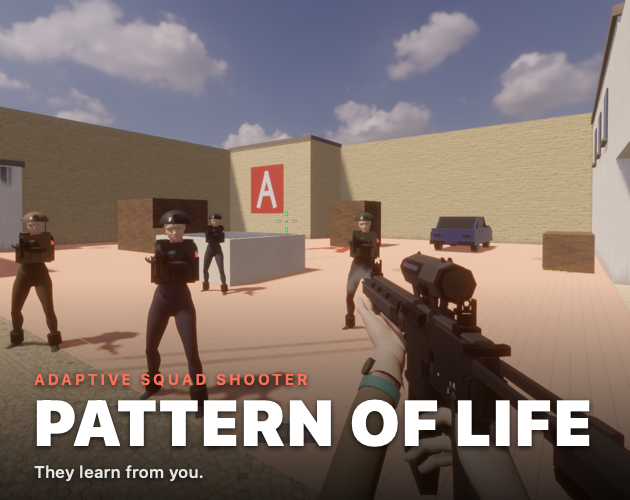
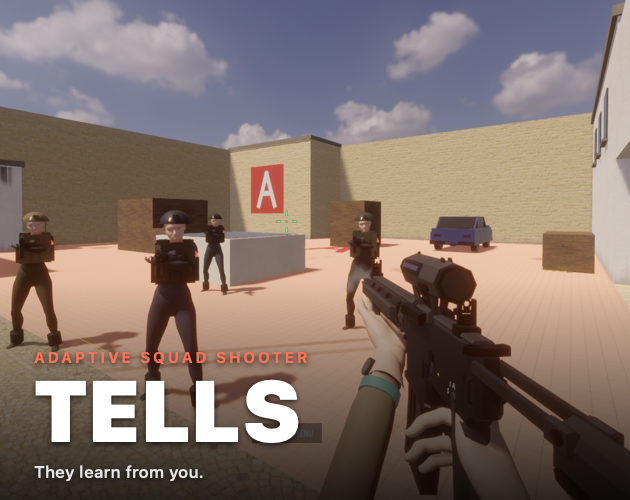
Rename the game to Tells (was Pattern of Life); 0.2.1
The squad reads your tells. Window title, macOS app and DMG, Windows exe and zip names, itch
target himanshuat/tells, readmes, cover, site copy and docs. The save folder, binary and crates
keep the codename shroud, so saves carry over.

Changed region(s): [[0.0302, 0.69, 0.6937, 0.9], [0.7238, 0.78, 0.9349, 0.9]]

diff --git a/packaging/itch/description.html b/packaging/itch/description.html
@@ -1,4 +1,4 @@
-<p><strong>A tactical shooter where the enemy squad builds your pattern of life, and plays against it.</strong></p>
+<p><strong>A tactical shooter where the enemy squad reads your tells, and plays against them.</strong></p>
 <p>Bomb defusal, you against a squad of three to six (by difficulty), first to 3 rounds: plant at A or B before the clock runs out. After every match the squad evolves against a model of <em>you</em>: where you hold, which way you peek, the ranges you fight at. The next squad is bred from the ones that did best against you, and it plays differently.</p>
 <h2>What's in this build (v0.2.0)</h2>
 <ul>
@@ -20,13 +20,13 @@
 </ul>
 <h2>Install</h2>
 <ul>
-<li><strong>Windows 10/11 (64-bit):</strong> unzip and run <code>PatternOfLife.exe</code>. No installer, no extra runtimes.</li>
-<li><strong>macOS (Apple Silicon and Intel):</strong> unzip and open <code>Pattern of Life.app</code>. Signed and notarized.</li>
+<li><strong>Windows 10/11 (64-bit):</strong> unzip and run <code>Tells.exe</code>. No installer, no extra runtimes.</li>
+<li><strong>macOS (Apple Silicon and Intel):</strong> unzip and open <code>Tells.app</code>. Signed and notarized.</li>
 <li>The itch app installs and launches either one.</li>
 </ul>
 <p>Your progress and the squad's memory are saved locally; delete the save folder (see README.txt) to start over.</p>
 <h2>Crash and performance reports</h2>
 <p>This build sends crash reports, frame times and match results (map, difficulty, round scores) so we can fix what breaks, with no name attached. What the squad learns about you never leaves your computer. Turn it off in Settings → Gameplay.</p>
 <h2>Early build</h2>
-<p>Pattern of Life (previously called Shroud) is in development. Feedback is very welcome in the comments: what felt unfair, what felt smart, what broke.</p>
+<p>Tells (previously Pattern of Life, codename Shroud) is in development. Feedback is very welcome in the comments: what felt unfair, what felt smart, what broke.</p>
 <p>Made in Rust with Bevy. Art and sound are CC0 (Quaternius, Kenney and others; full credits in CREDITS.md in the download).</p>

diff --git a/web/src/data/site.ts b/web/src/data/site.ts
@@ -14,9 +14,9 @@ export type Placeholder = { label: string; value: string; placeholder: boolean; 
 
 // The game's name (formerly the codename Shroud). Change it here. Other spots that still spell it out
 // (none of them visible copy) are listed in README.md under "Renaming".
-export const NAME = 'Pattern of Life';
+export const NAME = 'Tells';
 // The itch.io page: live, free download for Windows and macOS.
-export const ITCH_URL = 'https://himanshuat.itch.io/patternoflife';
+export const ITCH_URL = 'https://himanshuat.itch.io/tells';
 
 export const download = {
   href: ITCH_URL,
@@ -33,7 +33,7 @@ export const site = {
   urlPlaceholder: true,
   title: `${NAME}: they get smarter, never faster`,
   description:
-    `${NAME} is a tactical shooter where the enemy squad builds your pattern of life, and plays against it. They get smarter, never faster.`,
+    `${NAME} is a tactical shooter where the enemy squad reads your tells, and plays against them. They get smarter, never faster.`,
   tagline: 'They get smarter, never faster.',
   kind: 'Tactical squad shooter',
 } as const;
@@ -68,7 +68,7 @@ export const release: Placeholder[] = [
 ];
 
 export const home = {
-  heroLine: 'A tactical shooter where the enemy squad builds your pattern of life, and plays against it.',
+  heroLine: 'A tactical shooter where the enemy squad reads your tells, and plays against them.',
   heroHint: 'Live on Foundry: point at or tap the map. That is you.',
   heroCta: { href: '/squad/', label: 'See how they hunt' },
   statement:

diff --git a/packaging/itch/make_cover.swift b/packaging/itch/make_cover.swift
@@ -25,7 +25,7 @@ func draw(_ s: String, _ font: NSFont, _ color: NSColor, _ y: CGFloat, kern: CGF
 }
 let barlow = NSFont(name: "Barlow-Medium", size: 82) ?? NSFont.systemFont(ofSize: 82, weight: .heavy)
 // Title: the largest size up to 86pt that fits the cover width; the eyebrow sits just above it.
-let title = "PATTERN OF LIFE", titleKern: CGFloat = 2
+let title = "TELLS", titleKern: CGFloat = 2
 var titleFont = NSFont.systemFont(ofSize: 86, weight: .black)
 while titleFont.pointSize > 30 && NSAttributedString(string: title, attributes: [.font: titleFont, .kern: titleKern]).size().width > CGFloat(W) - 68 {
     titleFont = NSFont.systemFont(ofSize: titleFont.pointSize - 1, weight: .black)

diff --git a/crates/game/src/main.rs b/crates/game/src/main.rs
@@ -38,7 +38,7 @@ pub use state::{GameState, Headless};
 fn info() -> GameInfo {
     // `id` "shroud" names the save folder and the SHROUD_* env vars: keep it, or players lose
     // their saves. `title` is only the player-facing name (window, menu).
-    GameInfo::new("shroud", "Pattern of Life")
+    GameInfo::new("shroud", "Tells")
         // Second line: the fairness promise (aim/reaction are fixed per difficulty, see brain::limits).
         .tagline("They learn from you.\nThey never aim faster. They play smarter.")
         .version(env!("CARGO_PKG_VERSION"))

diff --git a/docs/research/adaptive-squad-ai.md b/docs/research/adaptive-squad-ai.md
@@ -1,10 +1,10 @@
-# Learning One Player: Architecture for an Adaptive Enemy Squad in Pattern of Life
+# Learning One Player: Architecture for an Adaptive Enemy Squad in Tells
 
 *Research report, October 2026. Scope: `crates/brain` and the parts of `crates/game` that feed it.*
 
 ## Abstract
 
-Pattern of Life's enemy squad is supposed to get better at beating one particular player from match to match. Right now it doesn't do that convincingly. Players win 2–0 again and again at generation 8, and the debrief insights are things like "you hold the south yard 70%". This report reviews published work on learned and adaptive game agents: NVIDIA's ACE and GPU simulation work, DeepMind's Capture the Flag agents, GT Sophy, OpenAI Five, Forza's Drivatars, learned bots at Ubisoft and EA, Microsoft's WHAM, neuroevolution and quality diversity, player modelling, dynamic difficulty, shipped tactical FPS AI, and bot believability. The main conclusion is that **none of the systems that reached human or superhuman level did it with a handful of games of data.** They used hundreds of thousands of games (FTW: 450K [8]), days of console time (GT Sophy: 10–21 PS4s for 7–12 days [10]), or months of distributed self-play (OpenAI Five: 10 months [11]). Pattern of Life gets roughly 2–3 rounds of real data per match. The project's own measurement shows where the current loop breaks. Against the default scripted ghost, the squad's simulated win rate climbs from about 4% to 90–100% by generation 8, yet the real player still wins every generation 2–0. Simulation progress does not transfer. So the architecture should not try to learn a policy from the player's matches. It should **learn a model of the player** from those matches, then spend cheap, unlimited simulation **planning and evolving against that model**, and pick among a diverse archive of ready-made squad styles using a sample-efficient online bandit. The central recommendation is a **high-fidelity player clone for training**. It is behaviour-cloned from the player's recorded trajectories and duels, calibrated so that clone-versus-squad outcomes match real outcomes, and validated each generation by the gap between simulated and real win rate. Around it we propose: a situation-conditioned Bayesian player model; a real squad layer (shared belief, roles, bounding overwatch, crossfires, and Killzone-style position evaluation whose weights evolve); a lower-noise training loop built on a MAP-Elites archive and an opponent pool; optional small-scale RL; explicit fairness limits; and a CPU-first compute plan for a 24 GB Apple M5 laptop. We also give an evaluation protocol that separates "smarter" from "stronger", a method for producing statistically sound counterfactual debrief insights, and a prioritised roadmap mapped onto the existing modules.
+Tells's enemy squad is supposed to get better at beating one particular player from match to match. Right now it doesn't do that convincingly. Players win 2–0 again and again at generation 8, and the debrief insights are things like "you hold the south yard 70%". This report reviews published work on learned and adaptive game agents: NVIDIA's ACE and GPU simulation work, DeepMind's Capture the Flag agents, GT Sophy, OpenAI Five, Forza's Drivatars, learned bots at Ubisoft and EA, Microsoft's WHAM, neuroevolution and quality diversity, player modelling, dynamic difficulty, shipped tactical FPS AI, and bot believability. The main conclusion is that **none of the systems that reached human or superhuman level did it with a handful of games of data.** They used hundreds of thousands of games (FTW: 450K [8]), days of console time (GT Sophy: 10–21 PS4s for 7–12 days [10]), or months of distributed self-play (OpenAI Five: 10 months [11]). Tells gets roughly 2–3 rounds of real data per match. The project's own measurement shows where the current loop breaks. Against the default scripted ghost, the squad's simulated win rate climbs from about 4% to 90–100% by generation 8, yet the real player still wins every generation 2–0. Simulation progress does not transfer. So the architecture should not try to learn a policy from the player's matches. It should **learn a model of the player** from those matches, then spend cheap, unlimited simulation **planning and evolving against that model**, and pick among a diverse archive of ready-made squad styles using a sample-efficient online bandit. The central recommendation is a **high-fidelity player clone for training**. It is behaviour-cloned from the player's recorded trajectories and duels, calibrated so that clone-versus-squad outcomes match real outcomes, and validated each generation by the gap between simulated and real win rate. Around it we propose: a situation-conditioned Bayesian player model; a real squad layer (shared belief, roles, bounding overwatch, crossfires, and Killzone-style position evaluation whose weights evolve); a lower-noise training loop built on a MAP-Elites archive and an opponent pool; optional small-scale RL; explicit fairness limits; and a CPU-first compute plan for a 24 GB Apple M5 laptop. We also give an evaluation protocol that separates "smarter" from "stronger", a method for producing statistically sound counterfactual debrief insights, and a prioritised roadmap mapped onto the existing modules.
 
 ---
 
@@ -32,7 +32,7 @@ Reading `evolve.rs`, `sim.rs`, `mind.rs`, `utility.rs` and `player_model.rs` tur
 | D5 | **The behaviour space lacks the behaviours players read as smart.** Evolution tunes 10 scalars and a 14→4 micro net. The tactics themselves are hand-written utility curves. Coordination is now a radio blackboard (sightings shared every 0.35 s), reload-punish pushes and crossfire-aware flank selection (recently added in `mind.rs`/`utility.rs`), plus the ≤ 2 flanker cap and spacing. | `utility.rs`, `mind.rs` | Bounding overwatch, trading, pinning with suppression, pre-aiming the player's favourite angle, and collapsing on a sound can't be discovered because they can't be expressed. |
 | D6 | **Adaptation is invisible.** There are no callouts, and the debrief doesn't show what the squad tried. | game UI | Even real adaptation goes unnoticed. Shipped games (Section 3.6) show that perceived intelligence depends heavily on legibility. |
 
-The literature below explains why D1–D3 matter most, and D1 most of all. Every successful learned-agent system either had a faithful simulator of its opponent (the real game, self-play) or enormous amounts of data. Pattern of Life has neither, so the fidelity of the player model is the bottleneck.
+The literature below explains why D1–D3 matter most, and D1 most of all. Every successful learned-agent system either had a faithful simulator of its opponent (the real game, self-play) or enormous amounts of data. Tells has neither, so the fidelity of the player model is the bottleneck.
 
 ---
 
@@ -50,14 +50,14 @@ Primary sources were read where possible: arXiv papers, journal pages, and the o
 
 - **ACE autonomous game characters (CES 2025)** [1]. The pitch is characters that "perceive, plan, and act like human players". The stack is on-device models: Mistral-NeMo-Minitron language models at 8B, 4B and 2B (the 2B "fits in as little as 1.5GB of VRAM"), plus audio, vision and retrieval models. The only adaptation claim is marketing copy saying MIR5 bosses "continuously learn from player behavior" **[unverified: no technical source]**.
 - **PUBG Ally (KRAFTON, beta June 2026)** [2]. A quantised 2B language model (*System 2*) interprets speech and events and issues intents. A behaviour tree (*System 1*) does movement, aiming and combat, so "reflex-level actions never have to wait for the model". Cross-match adaptation is *memory* (preferred weapons, drop spots). There is no RL or imitation of combat. (The CES page names 8B for Ally [1]; the 2026 write-up says 2B.) *Lesson:* the useful part is the fast/slow split and grounded memory. ACE is not a way to make a squad tactically smarter.
-- **Isaac Gym** [3] runs simulation and training together on the GPU and reports 2–3 orders of magnitude speed-ups for robot RL. The transferable idea is batched simulation, also applied to game-style ECS by Madrona [51]. Section 4.6 explains why it mostly doesn't pay off for Pattern of Life.
+- **Isaac Gym** [3] runs simulation and training together on the GPU and reports 2–3 orders of magnitude speed-ups for robot RL. The transferable idea is batched simulation, also applied to game-style ECS by Madrona [51]. Section 4.6 explains why it mostly doesn't pay off for Tells.
 - **Research that is relevant, but not to squads:**
   - **ASE** [4]: adversarial imitation of motion clips into reusable skills.
   - **Eureka** [5]: an LLM evolves reward code, beating human-written rewards on 83% of 29 tasks.
   - **Voyager** [6]: a GPT-4 Minecraft agent.
   - **NitroGen** [7]: a ~500M-parameter vision-to-gamepad model behaviour-cloned from ~40,000 h of video across 1,000+ games, with up to 52% relative gain on unseen games.
 
-  Together they show that imitation scales with *data*, which is the one thing Pattern of Life doesn't have for a single player.
+  Together they show that imitation scales with *data*, which is the one thing Tells doesn't have for a single player.
 
 ### 3.2 Population RL and self-play at scale
 
@@ -68,7 +68,7 @@ Primary sources were read where possible: arXiv papers, journal pages, and the o
 - **OpenAI Five** [11] trained for 10 months. Self-play split 80% against the latest policy and 20% against past versions. Its "team spirit" τ blends individual and team-mean reward, r_i = (1−τ)ρ_i + τρ̄, annealed toward 1. Average reaction time was 217 ms.
 - **AlphaStar** [12] used a league of main agents, *main exploiters* that target the current main agent, and *league exploiters*, under negotiated limits on action rate.
 
-*Lessons for Pattern of Life:*
+*Lessons for Tells:*
 - Select on winning and let shaping evolve (FTW).
 - Curate training scenarios (Sophy).
 - Play past opponents and use team spirit (Five).
@@ -93,8 +93,8 @@ Forza's Drivatar is the closest shipped analogue [13][14]. The original Microsof
 
 - **Player modelling** is surveyed in [29][30], and opponent modelling in [36].
 - **Position prediction:** Hladky and Bulitko learned models from Counter-Strike: Source records that predict hidden opponents' positions, using only what a human could know, with "similar or better accuracy than human experts" [35]. This supports a **belief-state** squad.
-- **Few-shot individual models:** fine-tuned per-player chess models predict and even identify individuals [38]. The 2025 follow-up says those needed about 5,000 games; its Maia4All method needs **about 20**, by initialising a per-player embedding from population prototypes [39]. *This is the template for a Pattern of Life player clone:* a population prior plus a small per-player embedding.
-- **Fast selection from a library:** Bayesian Policy Reuse [37] keeps a belief over which known task type it is facing and picks the policy from a library that handles it best, converging within a few episodes. For Pattern of Life, the library is the squad archive and the task is this player.
+- **Few-shot individual models:** fine-tuned per-player chess models predict and even identify individuals [38]. The 2025 follow-up says those needed about 5,000 games; its Maia4All method needs **about 20**, by initialising a per-player embedding from population prototypes [39]. *This is the template for a Tells player clone:* a population prior plus a small per-player embedding.
+- **Fast selection from a library:** Bayesian Policy Reuse [37] keeps a belief over which known task type it is facing and picks the policy from a library that handles it best, converging within a few episodes. For Tells, the library is the squad archive and the task is this player.
 - **Dynamic difficulty adjustment:**
   - Hunicke argued for DDA in games [31], and her Hamlet system for Half-Life adjusted item supply [32]. Chen's flow framing ties challenge to ability [33].
   - Spronck's **dynamic scripting** [34] adapted online within tens of encounters, and shipped as a *Neverwinter Nights* demonstration. It managed this because it learns only **weights over a fixed set of sensible tactics**.
@@ -107,11 +107,11 @@ Forza's Drivatar is the closest shipped analogue [13][14]. The original Microsof
 - **Halo** [44] playtests: "very intelligent" ratings rose from 8% for weak enemies to 43% for tough ones ("Tougher = Smarter"). The game had 166 dialogue types and 5,147 lines of combat chatter. Halo 2 introduced behaviour trees ([45], secondary source).
 - **Left 4 Dead's Director** [46] tracks survivor "intensity" (damage, incapacitation, nearby kills; decays when not engaged). It cycles Build Up → Sustain Peak (3–5 s) → Peak Fade → Relax (30–45 s). It adjusts difficulty through *pacing*, not stats.
 
-*Synthesis:* squads that ship and feel smart are **good positional reasoning, simple coordination and legibility**. These are the things Pattern of Life can't currently express (D5, D6).
+*Synthesis:* squads that ship and feel smart are **good positional reasoning, simple coordination and legibility**. These are the things Tells can't currently express (D5, D6).
 
 ### 3.7 Neuroevolution and quality diversity
 
-- **NEAT** [24] complexifies topologies, with speciation to protect new structure. **rtNEAT/NERO** [25] evolved combat teams *during* play under player-set fitness sliders. It is Pattern of Life's direct ancestor, and it worked because fitness was dense and player-directed.
+- **NEAT** [24] complexifies topologies, with speciation to protect new structure. **rtNEAT/NERO** [25] evolved combat teams *during* play under player-set fitness sliders. It is Tells's direct ancestor, and it worked because fitness was dense and player-directed.
 - **Novelty search** [27] shows that pure objective search gets trapped by deception.
 - **MAP-Elites** [26] keeps the best solution per cell of a behaviour space. **CMA-ME** [28] found stronger and more diverse Hearthstone decks than either CMA-ES or MAP-Elites.
 
@@ -137,7 +137,7 @@ Forza's Drivatar is the closest shipped analogue [13][14]. The original Microsof
 
 ---
 
-## 4. Proposed architecture for Pattern of Life
+## 4. Proposed architecture for Tells
 
 **Principle:** *Real matches are for **measuring the player**. Simulation is for **learning to beat them**. Deployment is a **bandit** over a diverse archive.*
 
@@ -177,7 +177,7 @@ Forza's Drivatar is the closest shipped analogue [13][14]. The original Microsof
 
 ### 4.1.1 L3: a calibrated player clone for training (central recommendation)
 
-The measured gap (D1) means every hour of training so far has optimised against the wrong opponent. A squad that wins 90–100% against the ghost and 0 of the real rounds has learned to beat the ghost. **Nothing else in this report pays off until the training opponent behaves, and loses, like the player.** The clone is that opponent. Every successful system in Section 3 had a faithful opponent, either the real game in self-play or a large dataset. For one player, Pattern of Life has to build it from a few matches.
+The measured gap (D1) means every hour of training so far has optimised against the wrong opponent. A squad that wins 90–100% against the ghost and 0 of the real rounds has learned to beat the ghost. **Nothing else in this report pays off until the training opponent behaves, and loses, like the player.** The clone is that opponent. Every successful system in Section 3 had a faithful opponent, either the real game in self-play or a large dataset. For one player, Tells has to build it from a few matches.
 
 **What the clone is.** A simulated player whose *decisions* are fitted to the player's recorded behaviour (behaviour cloning) and whose *outcomes* are then calibrated so that it wins and loses against squads at the rate the real player does. It is built in two stages.
 
@@ -490,7 +490,7 @@ Written after player feedback asking for an enemy that is more aggressive and pe
 - ViZDoom [A15] is a fast testbed.
 - Raycast "sensors" were enough for human-like imitation-learned shooter bots [A16]. That matches our 2D sim's sensor budget.
 
-### What Pattern of Life now does (`perception.rs`, `mind.rs`, `squad.rs`, `utility.rs`)
+### What Tells now does (`perception.rs`, `mind.rs`, `squad.rs`, `utility.rs`)
 
 1. **Alert states.**
    - Each enemy and the squad blackboard carry `Alert::{Unaware, Suspicious, Combat}`.

diff --git a/docs/marketing/REDDIT_PLAN.md b/docs/marketing/REDDIT_PLAN.md
@@ -1,9 +1,9 @@
-# Reddit plan and post drafts: Pattern of Life (codename Shroud)
+# Reddit plan and post drafts: Tells (codename Shroud)
 
 Drafted 11 Nov 2026. Drafting only: nothing posted, nobody contacted.
 Binding inputs: `company-context/founder/gtm-and-fundraise-2026-11.md` and the research brief (two accounts, max one self-promo post per sub per week, reply within 2 h, no paid ads, no "CS2-like" in titles). Targets: 300 stranger downloads by 15 Dec 2026; 500 wishlists before Next Fest (registration closes 10 Jan 2027, fest 22 Feb - 1 Mar 2027).
 
-**Name.** The game is **Pattern of Life** (renamed from the codename Shroud, a famous FPS streamer's name; owner approved 11 Nov 2026). Rule sources in the research brief are third-party mirrors, so read each sidebar on the day you post.
+**Name.** The game is **Tells** (owner's choice, 12 Nov 2026: a tell is the habit that gives a player away, and the squad reads yours). It was Pattern of Life for one day (0.2.0 on itch, 11 Nov), and before that the codename Shroud, a famous FPS streamer's name. itch.io: https://himanshuat.itch.io/tells. Rule sources in the research brief are third-party mirrors, so read each sidebar on the day you post.
 
 **Accounts.** Studio = S (player subs). Personal = P (r/rust, r/bevy, r/rust_gamedev, r/MachineLearning). S and P never vote on, comment on or crosspost each other's threads.
 
@@ -55,14 +55,14 @@ Capture with `crates/game/src/dev/cinema.rs` (capture + camera path) or `scripts
 **Title:** I played it twice. The second time, the bots knew exactly where I like to hold.
 **Body:** none (video only). Clip A.
 **First comment:**
-> Dev here. Pattern of Life is a single-player tactical defusal shooter (first to 3 rounds, buy menu, grenades) where the enemy squad studies how you play between matches. It doesn't get faster or more accurate; it gets smarter about where it stands and how it peeks.
+> Dev here. Tells is a single-player tactical defusal shooter (first to 3 rounds, buy menu, grenades) where the enemy squad studies how you play between matches. It doesn't get faster or more accurate; it gets smarter about where it stands and how it peeks.
 > Destroy it, please: (1) did the first 30 seconds tell you what the game is? (2) could you read the radio calls? (3) does the look feel cheap or fine? Free build on itch if you want to try it: {ITCH_URL_UTM}
 > {Cut note if applicable.}
 
 ### 3.2 r/playmygame (S)
-**Title:** [Windows/Mac] Free build: a bomb-defusal shooter where the enemy squad learns your habits (Pattern of Life)
+**Title:** [Windows/Mac] Free build: a bomb-defusal shooter where the enemy squad learns your habits (Tells)
 **Body:**
-> I'm a solo dev. Pattern of Life is a first-person shooter: you attack, a squad defends two sites, first to 3 rounds, with a round economy, buy menu and grenades. Between matches the squad trains on a ghost of you and comes back with counters to what it saw: hold an angle and they jiggle-peek and flash, reload early and someone rushes the sound of your mag.
+> I'm a solo dev. Tells is a first-person shooter: you attack, a squad defends two sites, first to 3 rounds, with a round economy, buy menu and grenades. Between matches the squad trains on a ghost of you and comes back with counters to what it saw: hold an angle and they jiggle-peek and flash, reload early and someone rushes the sound of your mag.
 > Fixed by difficulty, never by evolution: their reaction time, aim error and damage. They get smarter, not faster.
 > **Play it:** {ITCH_URL_UTM} (free, Windows and macOS, about {N} min per match)
 > **What I want to know:** 1) Is Recruit fair? An early tester found the default too hard. 2) Did you notice the squad change between matches? When? 3) Where did you quit, and why? 4) Crashes or slow frames: tell me your hardware.
@@ -93,7 +93,7 @@ Capture with `crates/game/src/dev/cinema.rs` (capture + camera path) or `scripts
 ### 3.5 r/bevy (P)
 **Title:** Shipping a Bevy 0.20 FPS on laptops: the performance rules that mattered (merged level meshes, nearest-K lamp shadows, pipeline warm-up)
 **Body:**
-> Pattern of Life is a first-person shooter on Bevy 0.20.1 and avian3d 0.8. What moved frame time for us:
+> Tells is a first-person shooter on Bevy 0.20.1 and avian3d 0.8. What moved frame time for us:
 > - Plain level blocks are merged per material into a few meshes.
 > - Static scenery vs pooled, moving FX are separate (`Scenery` / `Actor`), so culling and batching treat them differently.
 > - Lamp shadows only for the nearest K lights, with K driven by a render-budget governor.
@@ -120,7 +120,7 @@ Reply within 2 h. Short, concrete, never combative. Replies to a downvoted threa
 4. **"Mac performance?"** {Only after measuring: "Runs at X fps on [chip] at [settings]."} Until then: "Honestly unmeasured on base chips. Tell me your chip and fps and I'll fix the worst cases."
 5. **"Price?"** The build is free on itch now. Pricing for any Steam release isn't decided.
 6. **"Steam link?"** Not yet. {After the page is live: link and "wishlist helps".}
-7. **"Name's the streamer!"** Yes, it's a working title and it's changing. {Edit once renamed.}
+7. **"Didn't this used to be called something else?"** Yes: it was codenamed Shroud, then Pattern of Life for a day. Tells stuck: the squad reads your tells.
 8. **"Rust/Bevy: why, and how?"** Bevy 0.20 and avian3d 0.8. Rust because the trainer needs to run the AI fast and headless. AI is a separate crate with no Bevy dependency. Happy to go deeper in {r/bevy thread}.
 9. **"Too hard" / "too easy."** Try Recruit and tell me which fight you lost and how: that's the most useful feedback I can get.
 10. **"Unrecord ripoff" (bodycam).** It's an optional camera mode, not the point of the game. The art is simple and the focus is the squad AI.
@@ -130,7 +130,7 @@ Reply within 2 h. Short, concrete, never combative. Replies to a downvoted threa
 
 ## 5. Tracking
 
-**Links.** `?utm_source=reddit&utm_medium=social&utm_campaign=pattern_of_life_nov26&utm_content=<sub>_<post#>` (example `dmg_1`, `pmg_1`). itch's dashboard shows referrer domains but, as far as I know, not per-post UTM breakdown ({VERIFY}). To split by post, use per-post paths on a studio-owned domain that redirect to itch (`/go/pmg1`) and count hits. Steam's traffic reports do support UTM: use the same scheme once the page is live.
+**Links.** `?utm_source=reddit&utm_medium=social&utm_campaign=tells_nov26&utm_content=<sub>_<post#>` (example `dmg_1`, `pmg_1`). itch's dashboard shows referrer domains but, as far as I know, not per-post UTM breakdown ({VERIFY}). To split by post, use per-post paths on a studio-owned domain that redirect to itch (`/go/pmg1`) and count hits. Steam's traffic reports do support UTM: use the same scheme once the page is live.
 
 **Log per post** (sheet): date/time (ET and IST), sub, account, title, clip, flair, upvotes and ratio at 2 h/24 h/72 h, comments, replies given within 2 h (Y/N), itch views, downloads, download rate, any removal and its stated reason, themes of top 3 comments, Steam wishlists (after page live).
 
@@ -147,7 +147,7 @@ Reply within 2 h. Short, concrete, never combative. Replies to a downvoted threa
 
 ## 6. Blocked on owner
 
-1. ~~**Final name**~~ Resolved 11 Nov 2026: Pattern of Life.
+1. ~~**Final name**~~ Resolved 12 Nov 2026: Tells (was Pattern of Life on 11 Nov).
 2. **Generative assets?** Any shipped art, voice lines (including squad radio) or text. Decides the optional line, Steam disclosure and reply 2.
 3. **Capture clips A-D**, the diagram and the debrief screenshot; confirm the radio lines shown are what the build prints.
 4. **Telemetry disclosure wording** for the itch page and the playmygame post.

diff --git a/docs/CONTROL_AND_TELEMETRY.md b/docs/CONTROL_AND_TELEMETRY.md
@@ -8,7 +8,7 @@ Both now come from the **`engine` crate** (`~/codes/game/engine`, `engine::devto
 | **Control port** — **for testing only**: tests and agents drive the game | `ashlar-control`, `ashlar-command`, `ashlar-mcp` | automated playtests, AI regression tests, perf soaks; Claude tests the game over MCP |
 | **Crash & performance reporting** | `ashlar-trace` (+ `ashlar-trace-server` self-hosted) | panics, hangs, frame-time histograms, match events |
 
-Pattern of Life's part lives in `crates/game/src/dev/`: its own commands (`commands.rs`, `ai_commands.rs`),
+Tells's part lives in `crates/game/src/dev/`: its own commands (`commands.rs`, `ai_commands.rs`),
 perf spans, metrics keys and session-log events (`mod.rs`). Note: `game/src/telemetry.rs` is
 the *player-habit* recorder for the AI — a different thing.
 
@@ -18,7 +18,7 @@ the *player-habit* recorder for the AI — a different thing.
 
 **Purpose:** let automated tests and agents (including Claude via MCP) drive and inspect the game. It is **not** a player feature.
 
-- Behind Pattern of Life's cargo feature `dev` (= `engine/devtools` + `engine/trace`), on by default for
+- Behind Tells's cargo feature `dev` (= `engine/devtools` + `engine/trace`), on by default for
   `cargo run` / `cargo test`. Ship builds use `--no-default-features`: no port, no MCP, no trace,
   the engine ignores its debug flags, and `cargo tree -p game --no-default-features -e normal | grep ashlar`
   prints nothing (`scripts/test-game.sh` and `scripts/package-macos.sh` check it).
@@ -54,7 +54,7 @@ Engine (generic): `engine.state`, `engine.start`, `engine.menu`, `engine.pause`,
 Old names kept as aliases: `game.quit` → `engine.quit`, `game.pause` → `engine.pause`,
 `game.resume` → `engine.resume`, `capture.screenshot` → `screenshot`.
 
-Pattern of Life:
+Tells:
 | Command | Params | Result |
 |---|---|---|
 | `game.state` | — | `{state (Menu/Playing/Evolving/Debrief), paused, time_scale, frame, seed, player:{pos, hp, ammo, yaw, pitch, crouched, grounded}}` |
@@ -81,7 +81,7 @@ Pattern of Life:
 | `sim.run` | `{generations, seed}` | headless trainer fitness curve |
 | `debug.overlay` | `{on}` | enemy debug view (F3) |
 
-Settings keys for `ui.setting`: Pattern of Life's `difficulty`, `map`, `show_callouts`, `crosshair_color`,
+Settings keys for `ui.setting`: Tells's `difficulty`, `map`, `show_callouts`, `crosshair_color`,
 `crosshair_size`, and the engine's `sensitivity`, `invert_y`, `quality`, `fov_deg` (was `fov`),
 `window_mode`, `vsync`, `show_fps`, `ui_scale`, `master_volume`, `sfx_volume`, `ambience_volume`.
 
@@ -106,14 +106,14 @@ Settings keys for `ui.setting`: Pattern of Life's `difficulty`, `map`, `show_cal
 The engine's `TracePlugin` (feature `telemetry`, part of `dev`) builds the tracer from `SHROUD_TRACE_ENDPOINT` /
 `SHROUD_TRACE_KEY`, else the values a release build baked in (a no-op tracer without both), arms hang detection on the first in-game
 frame, reports frame times and `perf.hitch`, installs the panic hook and handles `--crash-test`.
-Pattern of Life declares its events in `dev::DevPlugin` (`match.start`, `match.end`, `round.end`,
+Tells declares its events in `dev::DevPlugin` (`match.start`, `match.end`, `round.end`,
 `player.died`, `ai.evolved`, `ai.reset`, `bomb.*`, `career.objectives`, `career.objective`,
 `career.credited`, `career.promoted`) and records them with `dev::Dev::trace` /
 `dev::trace` (no-ops in ship builds).
 
 Perf monitor: `ai` (`EnemySet`) and `weapons` (`WeaponSet`) are perf spans; physics is timed by
 the engine. The overlay is on F2 (`PerfOverlayKey`; F3 is the enemy debug view). Metrics window
-(F4, dev runs): Pattern of Life records `ai.think_ms`, `ai.squad_ms`, `enemies.alive`, `enemies.engaged`,
+(F4, dev runs): Tells records `ai.think_ms`, `ai.squad_ms`, `enemies.alive`, `enemies.engaged`,
 `match.round` and labels each run with `map` and `difficulty`.
 
 ### Release builds with reports (`telemetry` feature)

diff --git a/docs/ARCHITECTURE.md b/docs/ARCHITECTURE.md
@@ -48,14 +48,14 @@ UI kit, mouse look + cursor capture, the FPS controller, audio volumes and the s
 quality presets, data/assets folders, the render budget and (feature `dev`) the control port,
 offscreen capture, perf overlay, metrics window, session log and crash/perf trace.
 
-Pattern of Life keeps only the game: `main` (`engine::app(..)` + plugins), `state` (`GameState` sub-state of
+Tells keeps only the game: `main` (`engine::app(..)` + plugins), `state` (`GameState` sub-state of
 `InGame`: Playing → Evolving → Debrief), `settings` (`ShroudSettings`: difficulty, map, crosshair,
 callouts, and their settings rows), `menu` (menu items, match setup screen, Enemy-brain card,
 pause score line, crosshair preview), `map`, `player` (controller tuning, health, trigger),
 `weapon`, `telemetry` (player habits for the AI), `match_flow`, `evolving`, `trainer_task`,
 `enemy/{mod, animation, gun, grenade, debug}`, `ui/{hud, feedback, callouts, debrief}`, `gfx`
-(Pattern of Life's look: exposure, fog, sky, FX textures), `audio` (which sounds play when), and `dev`
-(feature `dev`: Pattern of Life's control commands, perf spans, metrics keys, session-log events; see
+(Tells's look: exposure, fog, sky, FX textures), `audio` (which sounds play when), and `dev`
+(feature `dev`: Tells's control commands, perf spans, metrics keys, session-log events; see
 [CONTROL_AND_TELEMETRY.md](CONTROL_AND_TELEMETRY.md)).
 
 ## Key design rule: one mind, two worlds

diff --git a/web/DESIGN.md b/web/DESIGN.md
@@ -152,7 +152,7 @@ coordinator on the same map plan; it is labelled as such. The real one is Rust i
   cell transition (which names the destination: "Moving to Depot").
 - **"Status", not "Get Shroud".** There is nothing to buy or download yet, so the nav item and
   the finale show what is known and one line of what is still to be announced.
-  *Update (Nov 2026):* the game, now Pattern of Life, is a free download on itch.io. The hero's
+  *Update (Nov 2026):* the game, now Tells, is a free download on itch.io. The hero's
   primary button, the finale button, a "Download ↗" item in the header and menu, and a footer link
   all go there (`download` in `src/data/site.ts`). The ↗ marks the only links that leave the site;
   the header item is accent orange because it is the one action.

diff --git a/docs/PERF.md b/docs/PERF.md
@@ -1,7 +1,7 @@
 # Perf monitor
 
 Code: the engine's `devtools/{perf, perf_sys, perf_stats, perf_overlay, session_log}` (moved out of
-Pattern of Life in the engine port; Pattern of Life adds the `ai` / `weapons` spans and its metrics keys in
+Tells in the engine port; Tells adds the `ai` / `weapons` spans and its metrics keys in
 `crates/game/src/dev/mod.rs`, dev builds only). Toggle the overlay with F2, start with `--perf`, or send `perf.overlay`. Use
 `perf.stats` for the latest snapshot and `perf.report` for the session summary. Every second a
 `perf` line goes to `<data>/logs/session-*.jsonl`.

diff --git a/docs/ENGINE.md b/docs/ENGINE.md
@@ -56,7 +56,7 @@ fn main() -> kiln::Result<()> {
 
 ## Recommended plan
 ### Phase 0: ship on stock Bevy (now)
-Pattern of Life as designed. The AI is in the engine-free `brain` crate, so nothing here blocks it.
+Tells as designed. The AI is in the engine-free `brain` crate, so nothing here blocks it.
 Measure frame time, input latency, and draw calls with `ashlar-trace`-style telemetry from day one.
 
 ### Phase 1: Kiln façade (2–4 weeks, overlaps Phase 0)

diff --git a/web/README.md b/web/README.md
@@ -1,6 +1,6 @@
-# Pattern of Life website
+# Tells website
 
-Launch site for Pattern of Life (codename Shroud). Astro (static), GSAP + Lenis, a 2D canvas for the live belief grid.
+Launch site for Tells (codename Shroud). Astro (static), GSAP + Lenis, a 2D canvas for the live belief grid.
 Design record: `DESIGN.md`. All copy: `src/data/site.ts`.
 
 ```sh
